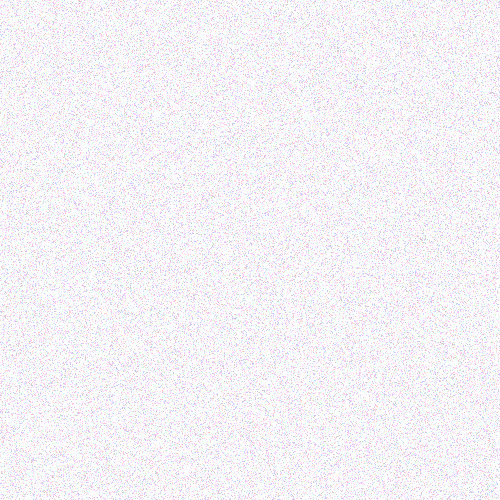
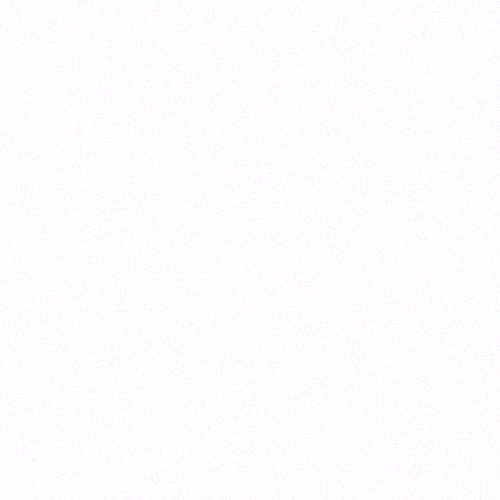
image coursel is now kinda working 2

Changed region(s): [[0.0, 0.0, 1.0, 1.0]]

diff --git a/style.css b/style.css
@@ -32,7 +32,7 @@ body{
     padding: 0;
     overflow-x: hidden;
     background-color: #0c0c0c;
-    background: url(images/whitenoise5.png), rgb(5, 5, 5);
+    background: url(images/whitenoise.png), rgb(0, 0, 0);
     background-size: 300px 300px;
     animation: 100ms steps(10, end) 0s infinite alternate-reverse none running noise-animation;
 }
@@ -327,6 +327,7 @@ body{
 }
 #image1:hover{
     transform: scale(1.1);
+    cursor: pointer;
 }
 
 #image2{
@@ -340,6 +341,7 @@ body{
 }
 #image2:hover{
     transform: scale(1.1);
+    cursor: pointer;
 }
 
 #image3{
@@ -355,13 +357,14 @@ body{
 }
 #image3:hover{
     transform: scale(1.1);
+    cursor: pointer;
 }
 
 #arrowForCarouselLeft {
     width: 50px;
     height: 50px;
     border: solid #e9e9e9;
-    border-width: 0 5px 5px 0;
+    border-width: 0 2.5px 2.5px 0;
     transform: rotate(135deg);
     cursor: pointer;
     grid-column: 1;
@@ -375,7 +378,7 @@ body{
     width: 50px;
     height: 50px;
     border: solid #e9e9e9;
-    border-width: 0 5px 5px 0;
+    border-width: 0 2.5px 2.5px 0;
     transform: rotate(-45deg);
     cursor: pointer;
     grid-column: 3;
@@ -413,7 +416,8 @@ body{
 }
 
 .contactInfoDiv{
-    text-align: center;
+    /* margin: 0 auto; */
+    /* text-align: center; */
 }
 
 .contactInfo {

diff --git a/index.html b/index.html
@@ -95,10 +95,10 @@
         <p id="construction">Still under construction, come back soon!</p>
         <div id="contactMe" class="contactMe">
             <h1 id="contactTitle">Contact Me</h1>
-            <div id="contactInfoDiv">
-                <!-- <a href="mailto:felixhornby64@outlook.com" id="myEmail" class="contactInfo"> Send me an Email</a>
-                <a href="tel:+447501589359" id="myNumber" class="contactInfo"> Message me</a> -->
-            </div>
+            <!-- <div id="contactInfoDiv">
+                <a href="mailto:felixhornby64@outlook.com" id="myEmail" class="contactInfo"> Send me an Email</a>
+                <a href="tel:+447501589359" id="myNumber" class="contactInfo"> Message me</a>
+            </div> -->
             <p id="contactText">Still under construction, come back soon!</p>
         </div>
         
